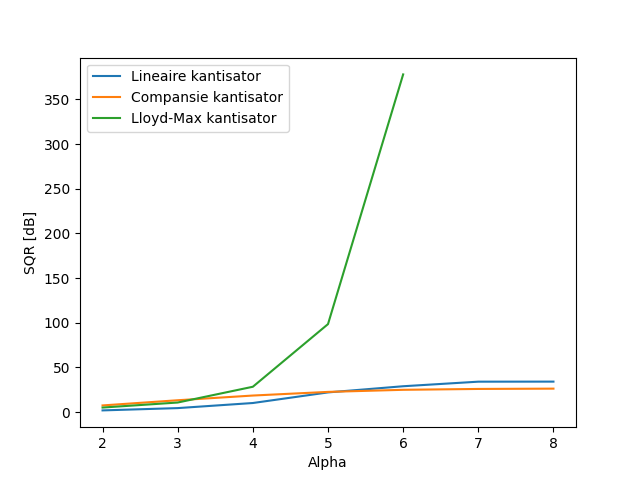
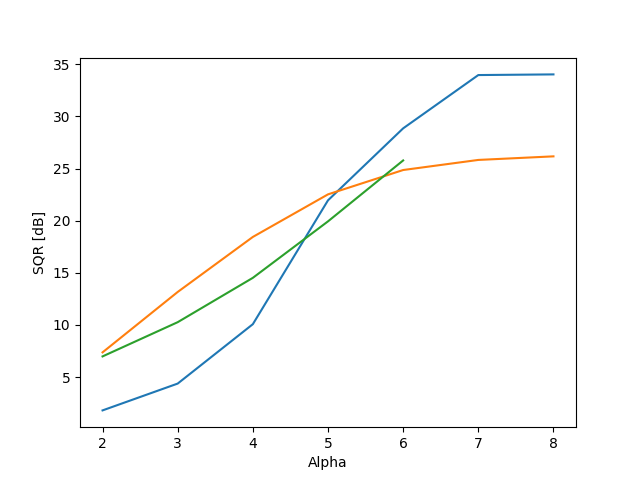
Nieuwe SQR

diff --git a/Python/run_simulation.py b/Python/run_simulation.py
@@ -18,14 +18,35 @@ from playsound import playsound
 def run_kwantisatie():
     obj = Kwantisatie(0)
 
+    
+    print('Generating plot: optimal SQR in function of alpha..')
+    alpha = np.array([i for i in range(2,9)])
+    y = np.array([obj.bepaal_optimale_lineaire_kwantisator(2**i)[2] for i in range(2,9)])
+    y2 = np.array([obj.bepaal_compansie_kwantisator(2**i)[1] for i in range(2,9)])
+    y3 = np.array([obj.bepaal_Lloyd_Max_kwantisator(2**i)[1] for i in range(2,7)])
+    winst = [0 for _ in range(0,6)] 
+    for i in range(0,6):
+        winst[i] = y[i+1] - y[i]
+    print(winst)
+    plt.plot(alpha, y)
+    plt.plot(alpha, y2)
+    plt.plot(alpha[:5], y3)
+    plt.xlabel("Alpha")
+    plt.ylabel("SQR [dB]")
+    plt.savefig('SQR.png')
+    plt.close()
+    print('Done!')
+    
+
+    return 1
     # Lloyd-Max KWANTISATOR
 
-    opt_kwant = obj.bepaal_Lloyd_Max_kwantisator(2**6)
-    r_opt = opt_kwant[3]
-    q_opt = opt_kwant[4]
-    gekwantiseerd_opt = obj.kwantiseer(r_opt, q_opt)
+    # opt_kwant = obj.bepaal_Lloyd_Max_kwantisator(2**6)
+    # r_opt = opt_kwant[3]
+    # q_opt = opt_kwant[4]
+    # gekwantiseerd_opt = obj.kwantiseer(r_opt, q_opt)
     
-    return (r_opt,q_opt,gekwantiseerd_opt)
+    # return (r_opt,q_opt,gekwantiseerd_opt)
 
     
 def run_broncodering():
@@ -160,7 +181,7 @@ def run_moddet():
 warnings.simplefilter('ignore') # ignore warnings of integral
 
 
-#run_kwantisatie()
+run_kwantisatie()
 #run_broncodering()
 #run_kanaalcodering()
-run_moddet()
+#run_moddet()

diff --git a/Python/kanaalcodering.py b/Python/kanaalcodering.py
@@ -492,7 +492,7 @@ class Kanaalcodering():
 # b = Kanaalcodering.decodeer_uitwendig(a)
 # print(b)
 
-obj = Kanaalcodering()
+#obj = Kanaalcodering()
 # data_binair =  ['11', '10', '01', '00', '10', '01', '01', '00', '00', '00']
 # a =  obj.kanaalencodering_1(data_binair)
 # print(a)
@@ -503,4 +503,4 @@ obj = Kanaalcodering()
 
 
 #c = obj.plot_s_1()
-c = obj.plot_s_2()
+#c = obj.plot_s_2()
